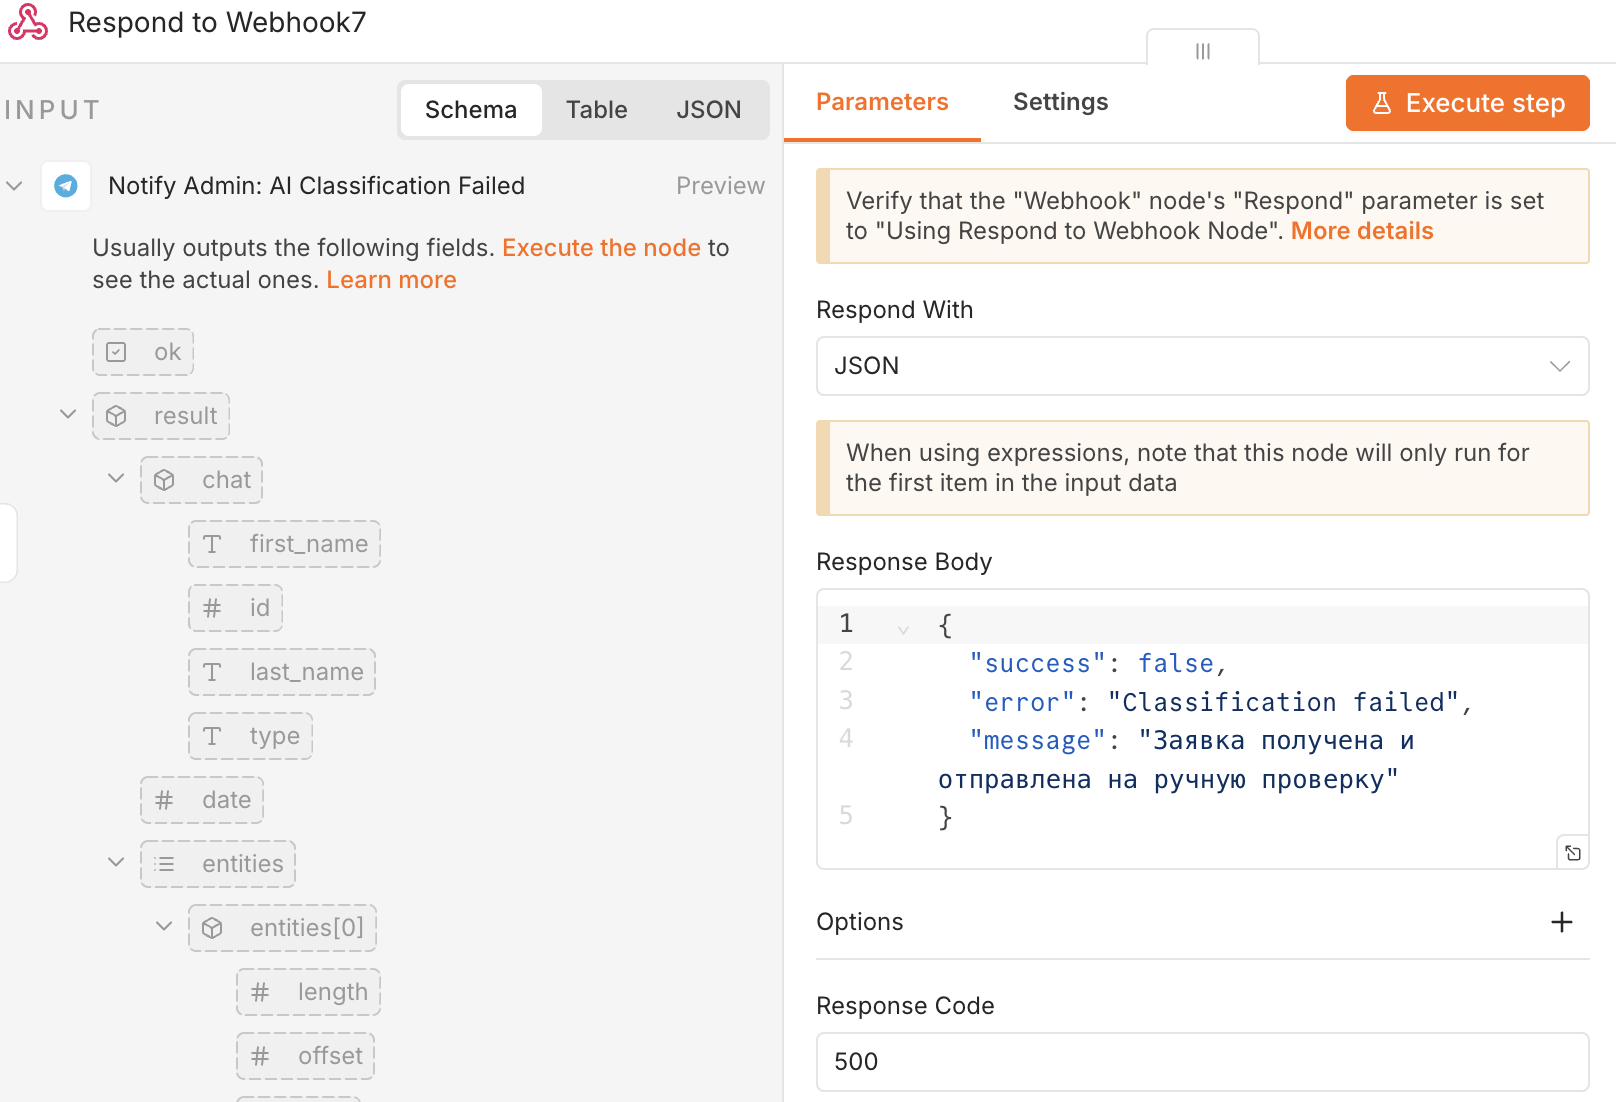
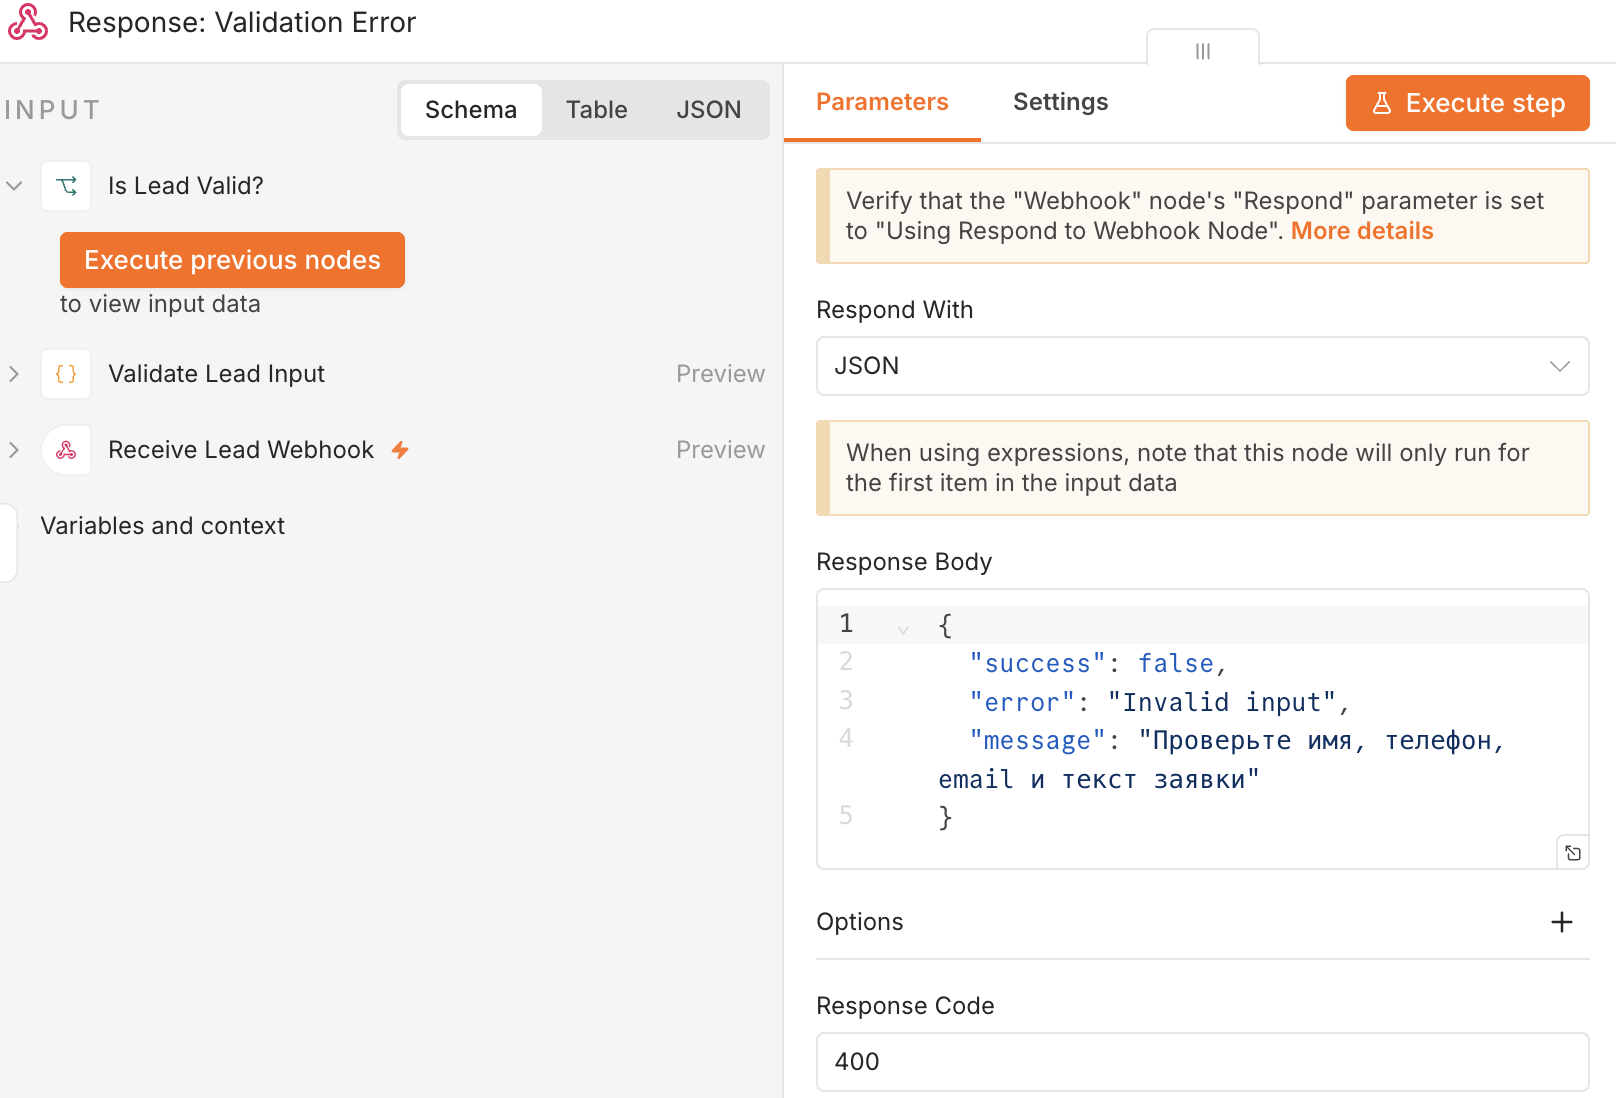
Refactor AI lead processing pipeline

diff --git a/README.md b/README.md
@@ -34,7 +34,7 @@ n8n-portfolio/
 | # | Проект | Что делает | Стек |
 |---|--------|------------|------|
 | 1 | [AI-ассистент продаж](./01-ai-sales-assistant/) | Ведёт клиента в Telegram, собирает данные и помогает оформить заказ | `n8n` · `Groq` · `Telegram` · `Google Sheets` |
-| 2 | [Воронка лидов с LLM-классификатором](./02-lead-funnel/) | Делит заявки на холодные / тёплые / горячие и запускает разные сценарии | `n8n` · `Groq` · `Webhook` · `Gmail` · `Telegram` · `Bitrix24` |
+| 2 | [ИИ-воронка квалификации лидов](./02-lead-funnel/) | Валидирует заявки, классифицирует лидов через ИИ, извлекает бюджет и маршрутизирует обработку | `n8n` · `Groq` · `Webhook` · `Gmail` · `Telegram` · `Google Sheets` · `Bitrix24` |
 | 3 | [Умный парсер вакансий](./03-hh-parser/) | Получает вакансии через API, фильтрует и оценивает их через LLM | `n8n` · `Groq` · `HH.ru API` · `Telegram` |
 | 4 | [RAG Telegram FAQ Bot](./04-rag-telegram-faq-bot/) | Отвечает на вопросы в Telegram по базе знаний из PDF через Supabase Vector Store | `n8n` · `RAG` · `Supabase` · `Groq` · `Telegram` |
 | 5 | [Мониторинг цен конкурентов](./05-competitor-price-&-offer-monitoring-system/) | Собирает цены с сайтов конкурентов, сравнивает с историей и отправляет Telegram-отчёты | `n8n` · `JavaScript` · `Google Sheets` · `Telegram` · `Groq` |
@@ -67,33 +67,39 @@ Telegram Trigger
 
 ---
 
-## 2. Воронка лидов с LLM-классификатором
+## 2. ИИ-воронка квалификации лидов
 
 **Папка:** [`02-lead-funnel`](./02-lead-funnel/)
 
-Workflow для автоматической обработки входящих заявок. Система принимает заявку через Webhook, анализирует её с помощью AI Agent и распределяет лид по температуре.
+Production-oriented workflow для автоматической обработки входящих заявок. Система принимает лид через Webhook, валидирует поля, проверяет demo secret, классифицирует заявку через ИИ, извлекает бюджет из естественного текста и маршрутизирует обработку по температуре лида.
 
 ### Ключевая логика
 
 ```text
 Webhook
-→ AI Agent
-→ Code node
-→ Switch
-├── холодный лид → email + Google Sheets
-├── тёплый лид → email + Google Sheets
-├── горячий лид → Telegram manager ping + Bitrix24 CRM
-└── fallback → Telegram error notification
+→ Validate Lead Input
+→ AI Classification
+→ Parse & Normalize AI Output
+→ Route by Temperature
+├── холодный лид → email → Google Sheets → Response 200
+├── тёплый лид → email → Google Sheets → Response 200
+├── горячий лид → Telegram → Budget check → Bitrix24 CRM → Response 200
+├── AI fallback → admin Telegram alert → Response 500
+└── invalid input → Response 400
 ```
 
 ### Что показывает проект
 
-- AI-классификацию заявок;
-- нормализацию JSON-ответа модели через Code node;
-- извлечение бюджета из текста заявки;
-- маршрутизацию через Switch;
+- валидацию входящих данных до запуска ИИ;
+- deterministic AI classification с `temperature: 0`;
+- строгий parsing и проверку JSON-ответа модели;
+- нормализацию ИИ-ответа (`теплый` → `тёплый`);
+- извлечение бюджета из текста: `50к`, `50 тыс`, `1.5 млн`;
+- маршрутизацию лидов через Switch;
+- отдельные CRM-сценарии для заявок с бюджетом и без бюджета;
 - интеграцию с Bitrix24 через REST API;
-- fallback-ветку на случай некорректного AI-ответа.
+- fallback-ветку на случай некорректного ИИ-ответа;
+- явные Webhook responses для успешных, невалидных и fallback-сценариев.
 
 ---
 
@@ -278,7 +284,7 @@ n8n-portfolio/
 | # | Project | What it does | Stack |
 |---|---------|--------------|-------|
 | 1 | [AI Sales Assistant](./01-ai-sales-assistant/) | Talks to customers in Telegram, collects details, and helps confirm orders | `n8n` · `Groq` · `Telegram` · `Google Sheets` |
-| 2 | [Lead Funnel With LLM Classifier](./02-lead-funnel/) | Classifies leads as cold / warm / hot and routes them to different actions | `n8n` · `Groq` · `Webhook` · `Gmail` · `Telegram` · `Bitrix24` |
+| 2 | [AI Lead Qualification Funnel](./02-lead-funnel/) | Validates leads, classifies them with AI, extracts budget, and routes each scenario | `n8n` · `Groq` · `Webhook` · `Gmail` · `Telegram` · `Google Sheets` · `Bitrix24` |
 | 3 | [Smart Vacancy Parser](./03-hh-parser/) | Gets vacancies through API, filters them, and scores them with an LLM | `n8n` · `Groq` · `HH.ru API` · `Telegram` |
 | 4 | [RAG Telegram FAQ Bot](./04-rag-telegram-faq-bot/) | Answers Telegram questions from a PDF knowledge base using Supabase Vector Store | `n8n` · `RAG` · `Supabase` · `Groq` · `Telegram` |
 | 5 | [Competitor Price Monitoring](./05-competitor-price-&-offer-monitoring-system/) | Collects competitor prices, compares them with history, and sends Telegram reports | `n8n` · `JavaScript` · `Google Sheets` · `Telegram` · `Groq` |
@@ -311,33 +317,39 @@ Telegram Trigger
 
 ---
 
-## 2. Lead Funnel With LLM Classifier
+## 2. AI Lead Qualification Funnel
 
 **Folder:** [`02-lead-funnel`](./02-lead-funnel/)
 
-A workflow for automatic incoming lead processing. The system receives a lead through Webhook, analyzes it with an AI Agent, and routes it based on lead temperature.
+A production-oriented workflow for automatic incoming lead processing. The system receives a lead through Webhook, validates the input, checks a demo secret, classifies the request with an AI Agent, extracts budget from natural language, and routes the lead by temperature.
 
 ### Core Logic
 
 ```text
 Webhook
-→ AI Agent
-→ Code node
-→ Switch
-├── cold lead → email + Google Sheets
-├── warm lead → email + Google Sheets
-├── hot lead → Telegram manager ping + Bitrix24 CRM
-└── fallback → Telegram error notification
+→ Validate Lead Input
+→ AI Classification
+→ Parse & Normalize AI Output
+→ Route by Temperature
+├── cold lead → email → Google Sheets → Response 200
+├── warm lead → email → Google Sheets → Response 200
+├── hot lead → Telegram → Budget check → Bitrix24 CRM → Response 200
+├── AI fallback → admin Telegram alert → Response 500
+└── invalid input → Response 400
 ```
 
 ### What this project demonstrates
 
-- AI-based lead classification;
-- JSON normalization through a Code node;
-- budget extraction from request text;
-- routing with Switch;
+- input validation before AI execution;
+- deterministic AI classification with `temperature: 0`;
+- strict parsing and validation of AI JSON output;
+- AI output normalization (`теплый` → `тёплый`);
+- budget extraction from natural language: `50к`, `50 тыс`, `1.5 млн`;
+- lead routing with Switch;
+- separate CRM paths for leads with and without budget;
 - Bitrix24 REST API integration;
-- fallback handling for invalid AI output.
+- fallback handling for invalid AI output;
+- explicit Webhook responses for success, invalid input, and fallback scenarios.
 
 ---
 